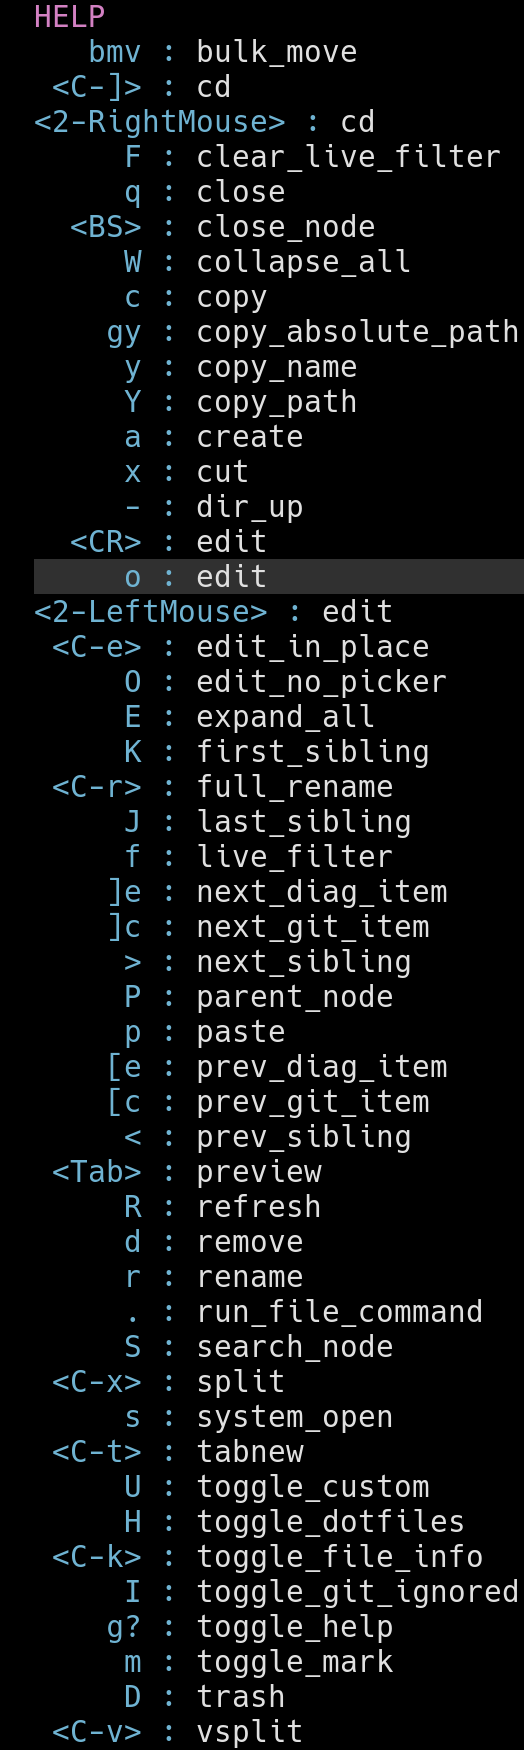
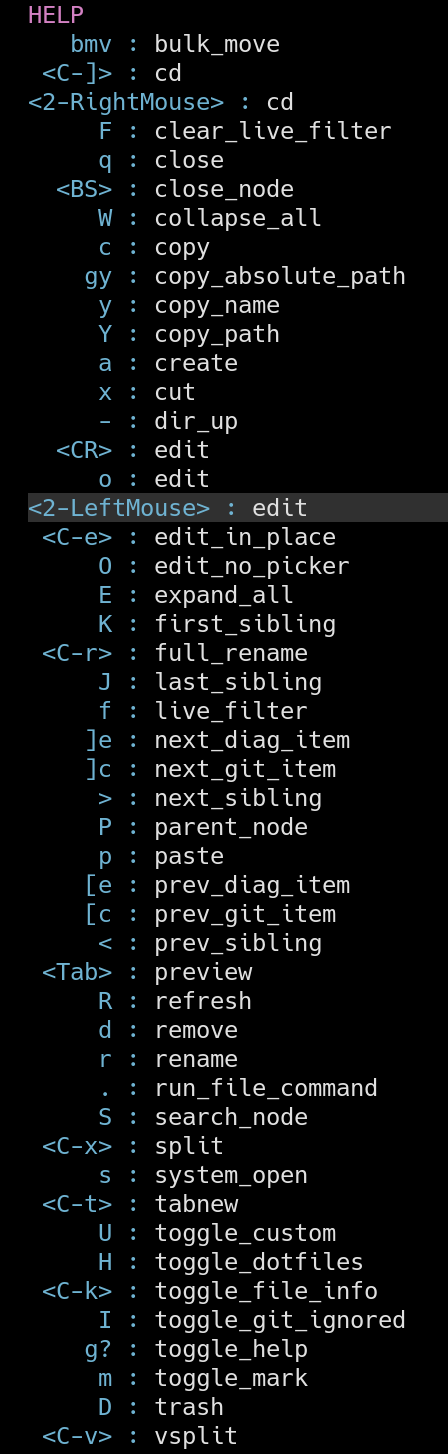
doc: update hero screenshots with default options

diff --git a/README.md b/README.md
@@ -2,8 +2,8 @@
 
 [![CI](https://github.com/nvim-tree/nvim-tree.lua/actions/workflows/ci.yml/badge.svg)](https://github.com/nvim-tree/nvim-tree.lua/actions/workflows/ci.yml)
 
-<img align="left" width="143" height="443" src=".github/example.tree.png?raw=true">
-<img align="left" width="174" height="583" src=".github/example.help.png?raw=true">
+<img align="left" width="149" height="484" src=".github/example.tree.png?raw=true">
+<img align="left" width="149" height="484" src=".github/example.help.png?raw=true">
 
    Automatic updates
 
